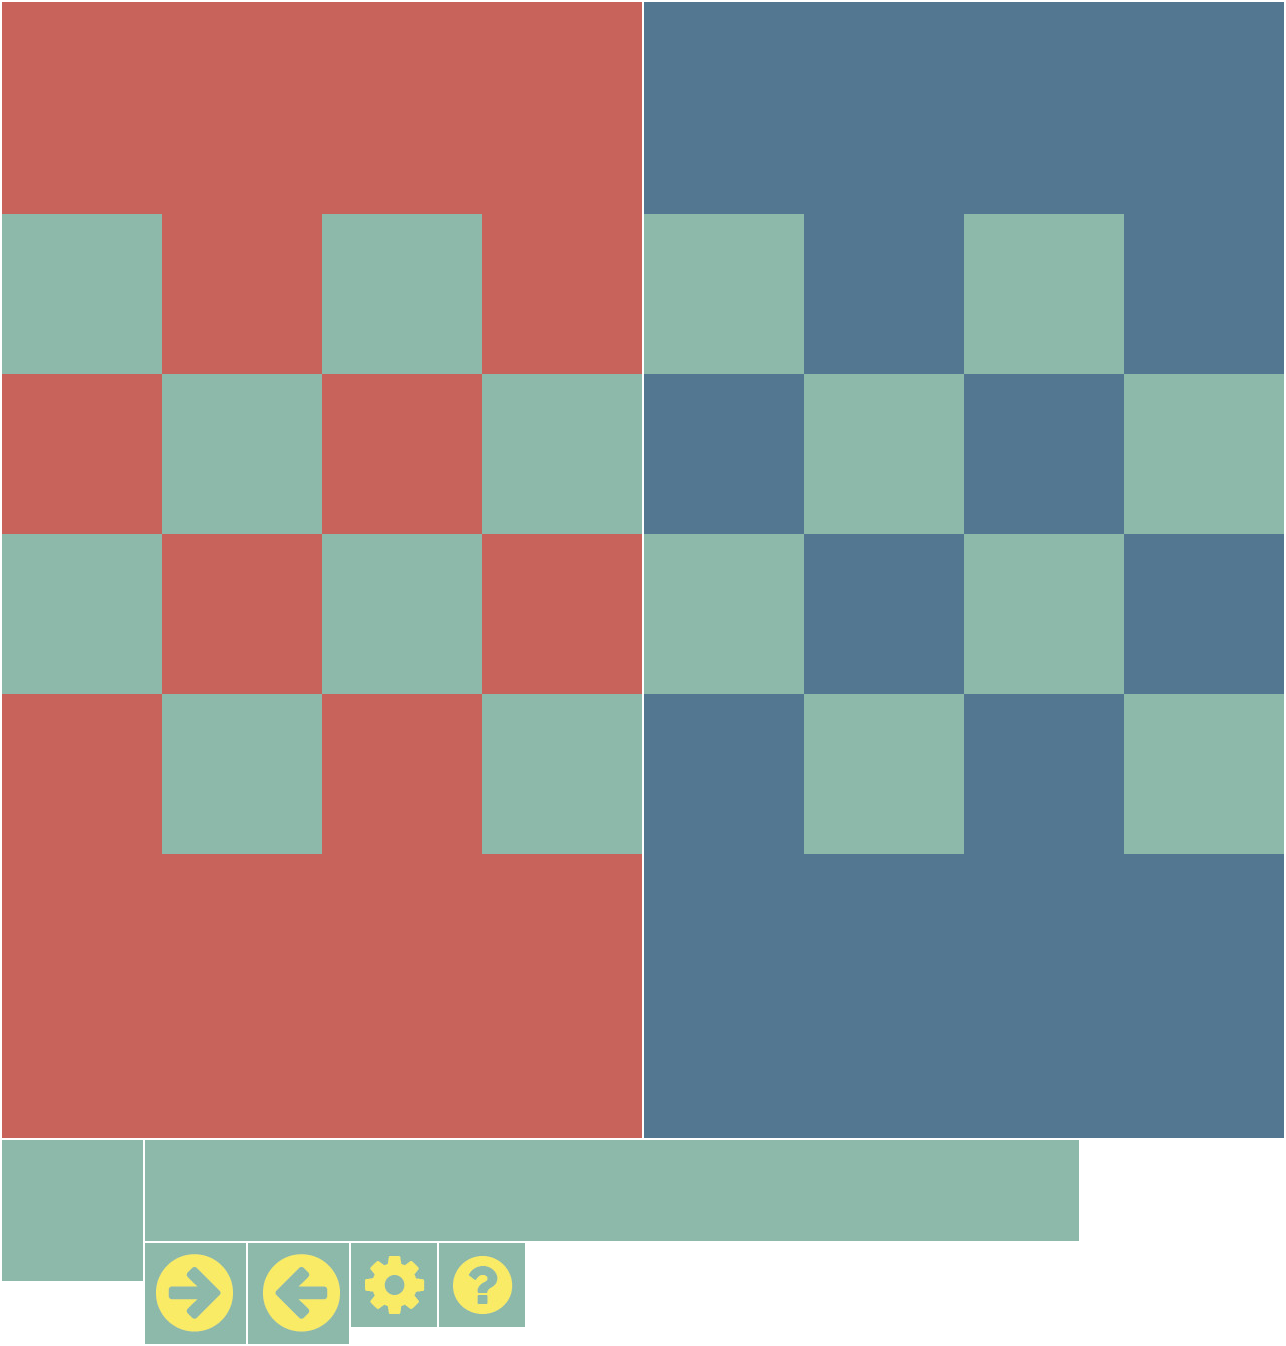
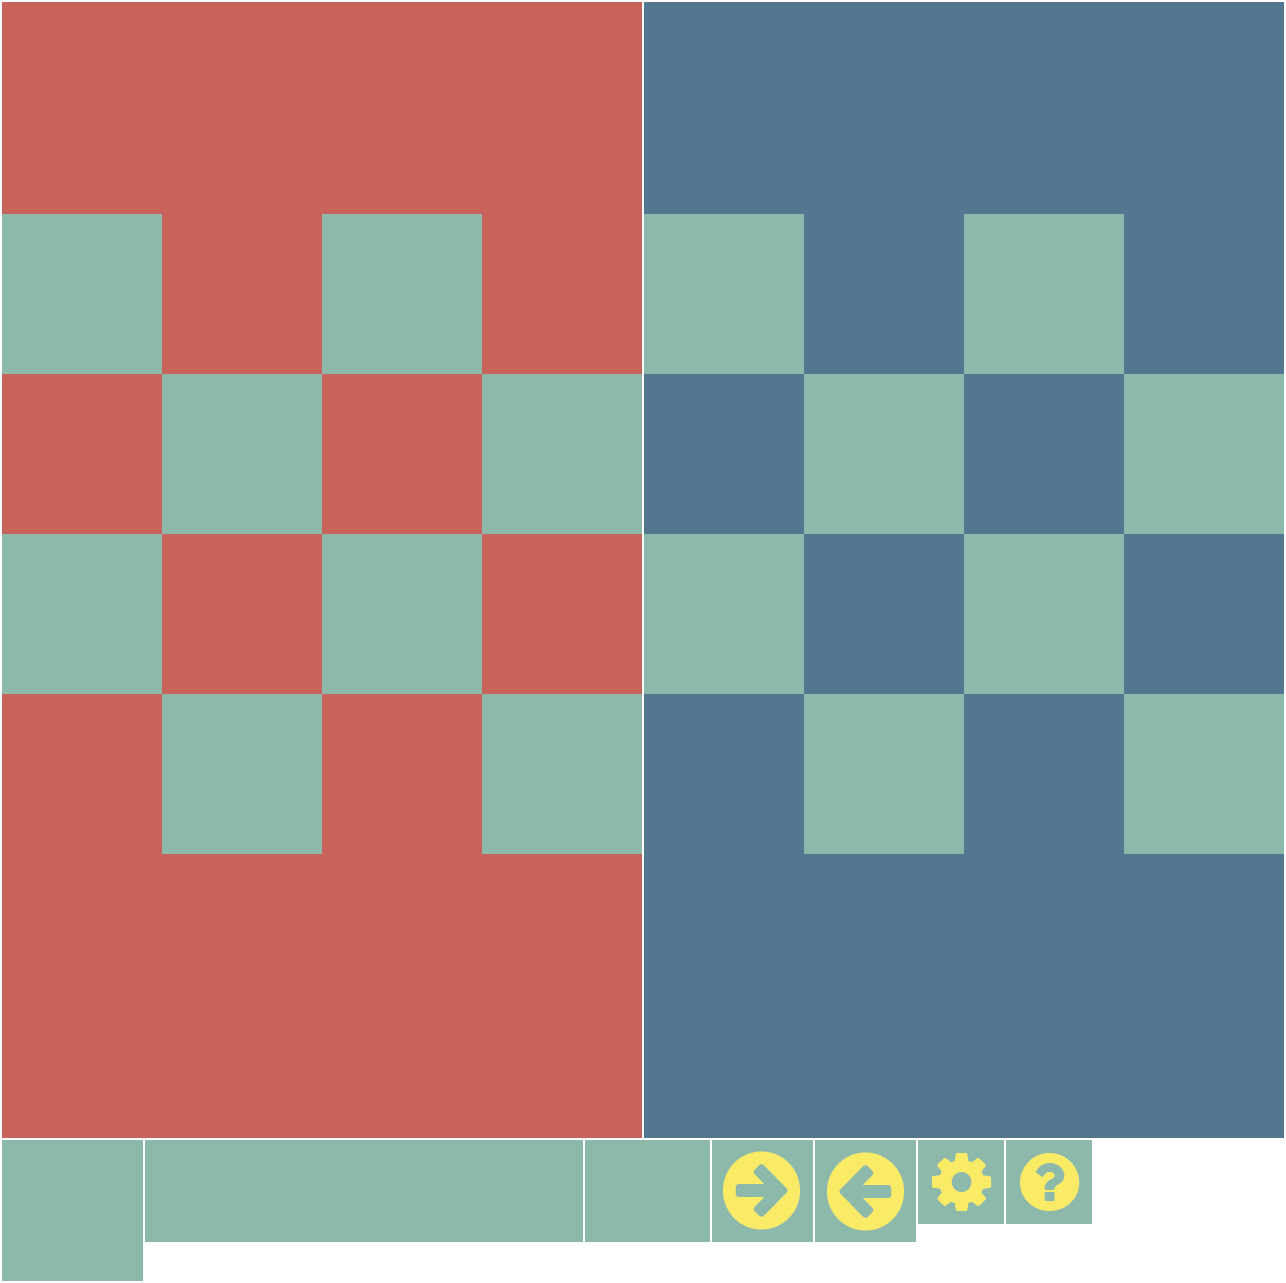
Adjust number scroller
The number scroller now works as expected.
There is no unnecessary vertical over scrolling.
The perceived vertical over scrolling due to the
font's padding was fixed by adjusting the font size.

diff --git a/core/src/com/numberquarto/PlayScreen.java b/core/src/com/numberquarto/PlayScreen.java
@@ -90,26 +90,47 @@ public class PlayScreen implements Screen {
 			style = new ScrollPane.ScrollPaneStyle();
 			style.background = skin.getDrawable("scroller_rectangle");
 			numberScroller = new ScrollPane(numberTable, style);
-			numberScroller.setBounds(0, Launch.SCREEN_HEIGHT - 1013, 460, 100);
+			int SCROLLER_RECTANGLE_WIDTH = skin.getRegion("scroller_rectangle").getRegionWidth();
+			int SCROLLER_RECTANGLE_HEIGHT = skin.getRegion("scroller_rectangle").getRegionHeight();
+			numberScroller.setBounds(100, Launch.SCREEN_HEIGHT - 1013, SCROLLER_RECTANGLE_WIDTH + 2, SCROLLER_RECTANGLE_HEIGHT);
+			numberScroller.setOverscroll(true, false);
+			numberTable.debug();
 			
-			float scale = 0.08f;
+			TextureRegion scrollerRectangle = skin.getRegion("scroller_rectangle");
+			int scrollerRectangleHeight = scrollerRectangle.getRegionHeight();
+			int fontHeight = (int) (scrollerRectangleHeight * 0.85);
+			
 			generator = new FreeTypeFontGenerator(Gdx.files.internal("fonts/Tahoma.ttf"));
-			int fontSize = (int) (scale * Gdx.graphics.getHeight());
-			System.out.println("screen height: " + Gdx.graphics.getHeight());
-			System.out.println("font size: " + fontSize);
-			font = generator.generateFont(fontSize);
+			font = generator.generateFont(fontHeight);
 			font.setColor(255, 255, 0, 1);
 			font.getRegion().getTexture().setFilter(TextureFilter.Linear, TextureFilter.Linear);
 			generator.dispose();
 			
-			buttonStyle = new TextButton.TextButtonStyle(null, null, null, font);
+			Drawable numberRectangle = skin.getDrawable("number_rectangle_background");
+			
+			buttonStyle = new TextButton.TextButtonStyle();
+			buttonStyle.font = font;
+			buttonStyle.up = numberRectangle;
 			stage.addActor(numberScroller);
+			
+			Drawable leftArrowRectangleSkin = skin.getDrawable("left_arrow");
+			Drawable rightArrowRectangleSkin = skin.getDrawable("right_arrow");
+			
+			int arrowRectangleTextureWidth = skin.getRegion("left_arrow").getRegionWidth();
+			int arrowRectangleTextureHeight = skin.getRegion("left_arrow").getRegionHeight();
 
+			ImageButton leftArrowRectangle = new ImageButton(leftArrowRectangleSkin);
+			leftArrowRectangle.setBounds(0, Launch.SCREEN_HEIGHT - 1013, arrowRectangleTextureWidth, arrowRectangleTextureHeight);
+			ImageButton rightArrowRectangle = new ImageButton(rightArrowRectangleSkin);
+			rightArrowRectangle.setBounds(539, Launch.SCREEN_HEIGHT - 1013, arrowRectangleTextureWidth, arrowRectangleTextureHeight);
+			stage.addActor(leftArrowRectangle);
+			stage.addActor(rightArrowRectangle);
 		}
 		
 		public void update (ArrayList<Integer> numberList) {
 			for (Integer number : numberList) {
-				numberTable.add(new TextButton(number.toString(), buttonStyle));
+				TextButton button = new TextButton(number.toString(), buttonStyle);
+				numberTable.add(button);
 			}
 		}
 	}
